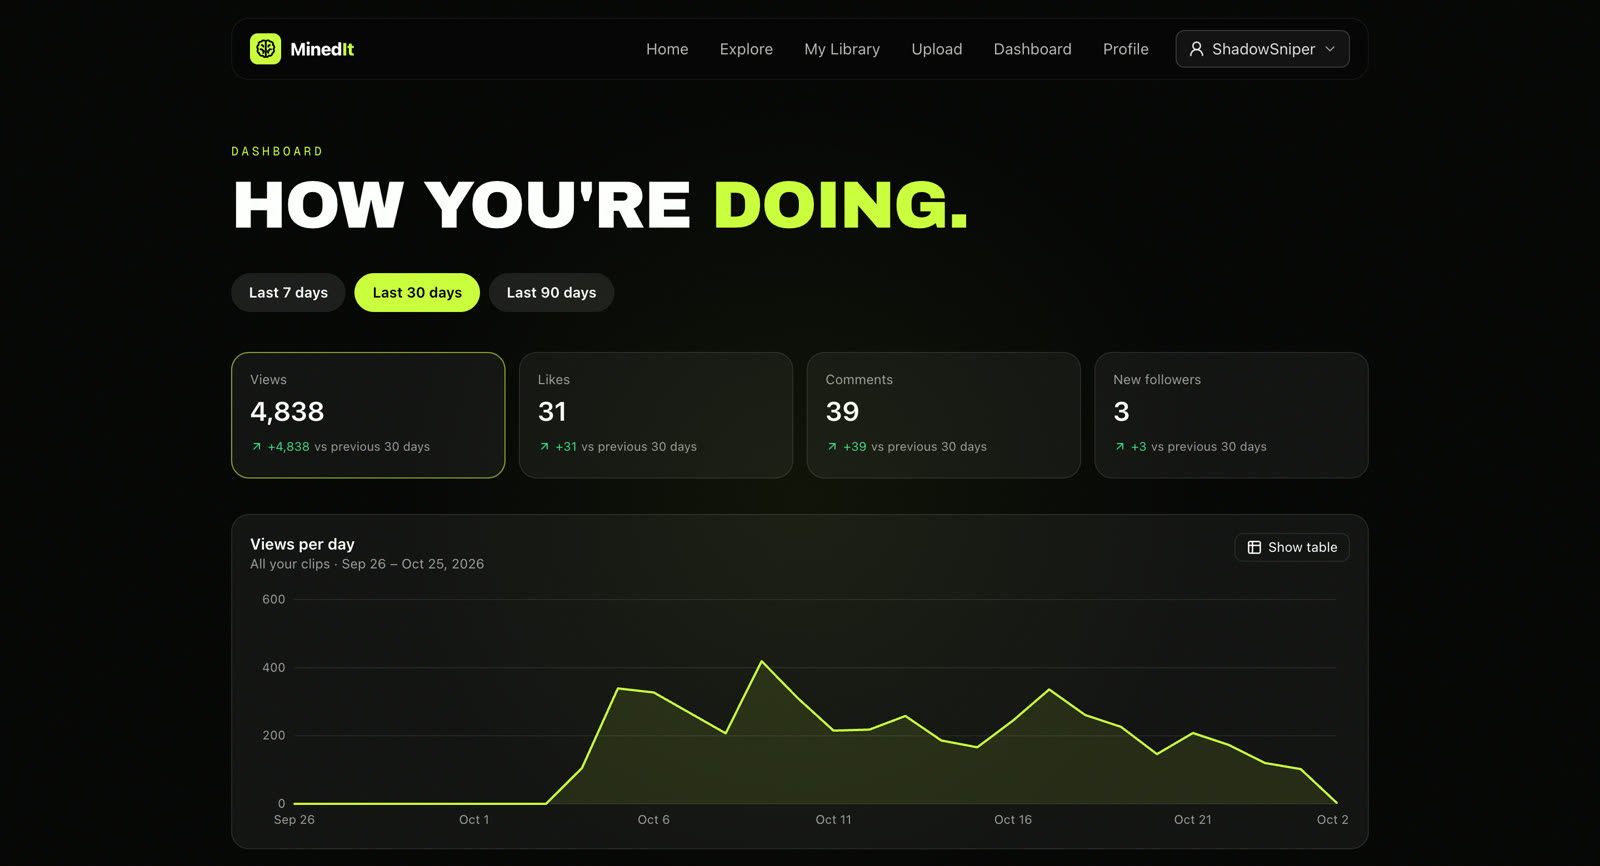
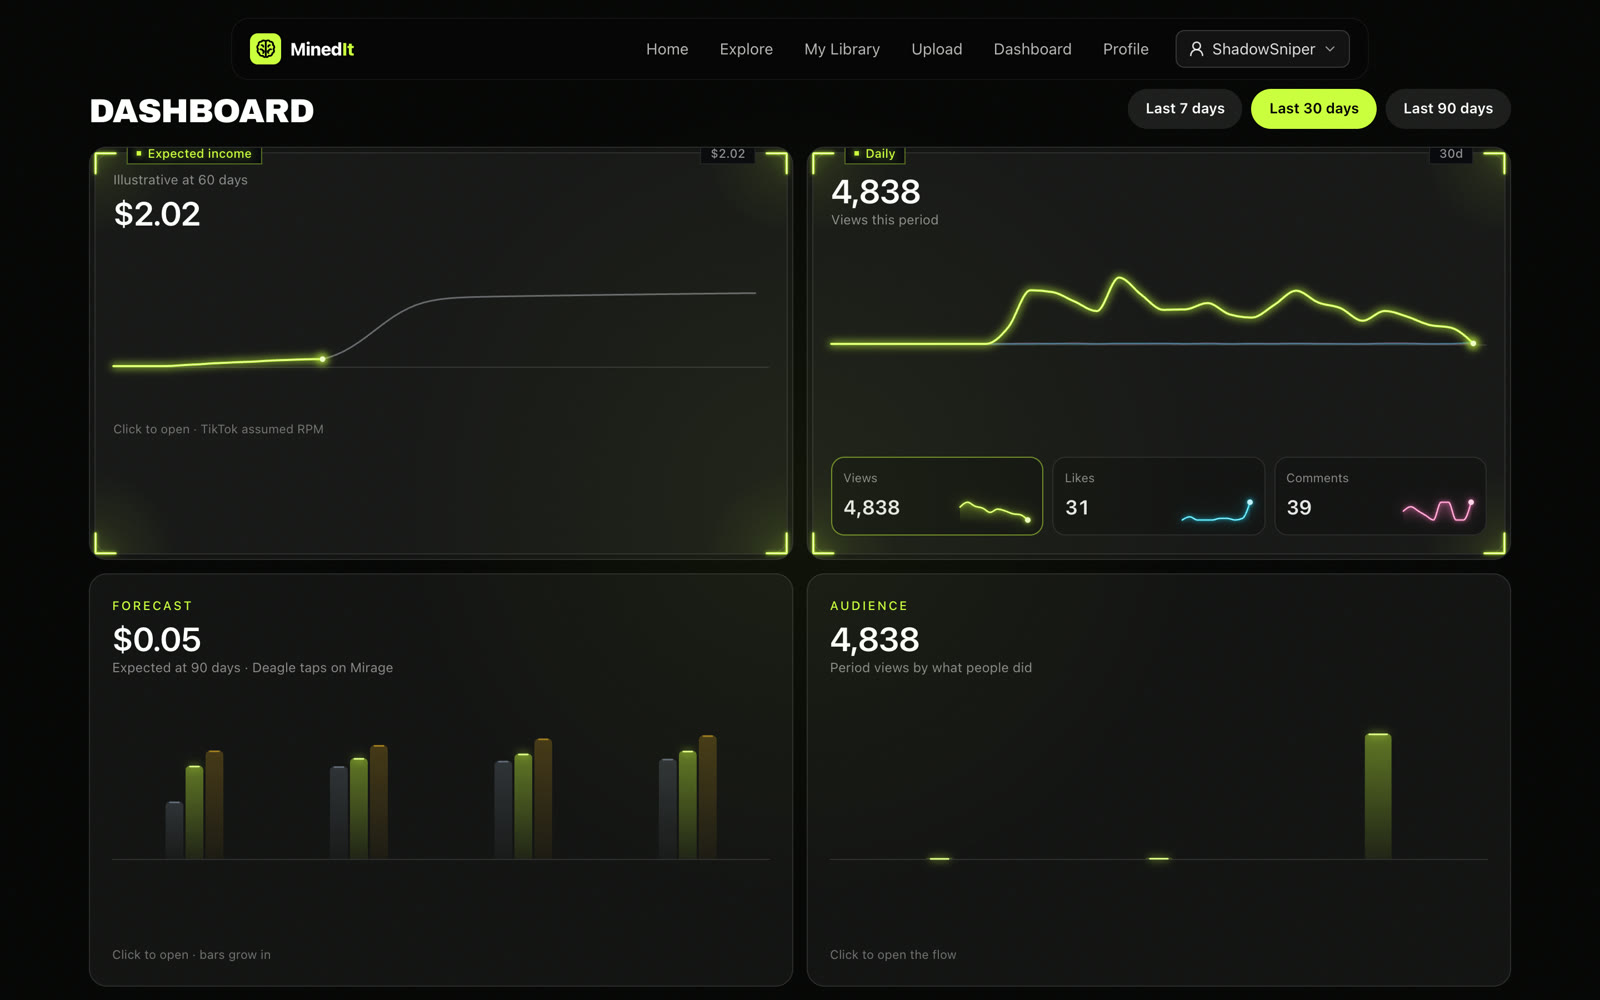
README: show Jasper's new dashboard

diff --git a/README.md b/README.md
@@ -62,10 +62,10 @@ Every upload is scored moment by moment. Highlight clips are cut automatically a
 ## Watch your numbers
 
 <p align="center">
-  <img src="docs/screenshots/dashboard.jpg" alt="Creator dashboard with views, likes, comments, followers and views per day" width="100%">
+  <img src="docs/screenshots/dashboard.jpg" alt="Creator dashboard with expected income, daily views, likes and comments, a per-clip forecast and audience flow" width="100%">
 </p>
 
-Views (counted once per viewer), likes, comments and new followers per day over 7, 30 or 90 days, compared with the period before, and every clip with its virality score.
+Daily views (counted once per viewer), likes and comments over 7, 30 or 90 days; an illustrative income projection at an assumed TikTok RPM; a 90-day forecast for each clip; how your audience flows from views to likes and comments; and every clip with its virality score.
 
 ## Drop it in, we do the rest
 
